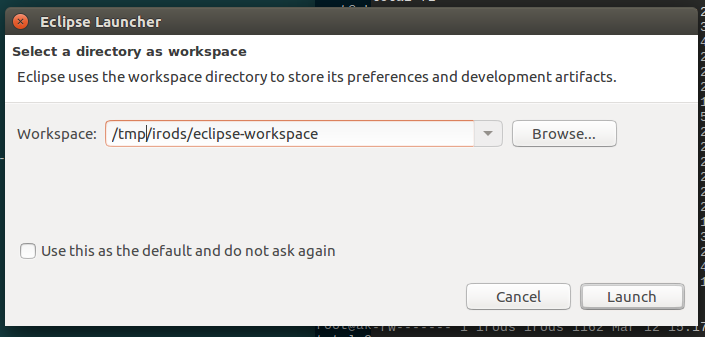
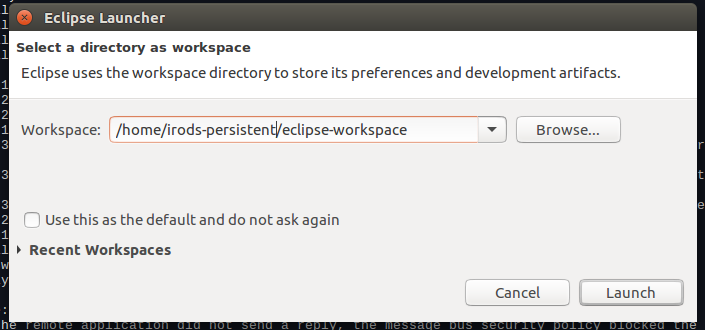
Interim checkin. Do not look.

Changed region(s): [[0.0, 0.0, 1.0, 1.0]]

diff --git a/Eclipse-attach-to-icommand-executable.md b/Eclipse-attach-to-icommand-executable.md
@@ -40,11 +40,63 @@ Lastly, much of what happens next is how I work -- there are many ways to do thi
 
 ### Preparations 
 
+Lets assume your developer user name is "akelly", and that your git repository sources are under the path "/home/akelly/src/renci/".  
 
-![Choose Project](images/debug-icmds-image1.png "Create an a new executable project") 
+You first have to create the runtime environment for eclipse under the user identity (authority) of "irods".  
 
+This means that the user "irods" exists and has a sane user environment (i.e. all the prerequisite packages to run iRODS on your system have been installed, and that the "irodsServer" process is running.  See the links in the previous section).
 
-Temporary text while under construction
+We're going to use a somewhat temporary folder "/home/irods-persistent" to house both the eclipse workspace, as well as the copy of the sources we're going to make, for the "irods" user:
+
+~~~
+$ sudo su
+<password>
+# cd ~akelly/src/renci
+# ls -l
+total 36
+drwxrwxr-x  9 akelly akelly 4096 Mar 11 13:21 ./
+drwxrwxr-x 15 akelly akelly 4096 Mar 10 16:34 ../
+drwxrwxr-x  8 akelly akelly 4096 Mar 12 15:23 bld_irods/
+drwxrwxr-x  5 akelly akelly 4096 Mar 12 15:27 bld_irods_client_icommands/
+drwxrwxr-x  4 akelly akelly 4096 Mar 10 22:01 How-To/
+drwxr-xr-x  4 akelly akelly 4096 Mar 10 16:34 How-To.bak/
+drwxrwxr-x 15 akelly akelly 4096 Mar 10 21:55 irods/
+drwxrwxr-x 10 akelly akelly 4096 Mar 10 22:06 irods_client_icommands/
+drwxrwxr-x  5 akelly akelly 4096 Mar 11 13:21 irods_training/
+~~~
+
+The sources we want (for /usr/bin/ireg) are in the "irods\_client\_icommands/" folder.  Create the target folder if it doesn't exist already, and copy the sources there.
+
+~~~
+# mkdir -p /home/irods-persistent
+--->  this is optional:  rm -rf /home/irods-persistent/irods_clients_icommands  
+# cp -r irods_clients_icommands/ /home/irods-persistent 
+# chown -R irods:irods /home/irods-persistent
+~~~
+
+Now, become the user "irods", find the "ireg" executable, and start eclipse (from the command line). Still as superuser:
+
+~~~
+# su - irods
+irods@akellydt1:~$ pwd
+/home/irods
+irods@akellydt1:~$ which ireg
+/usr/bin/ireg
+irods@akellydt1:~$ /opt/eclipse/eclipse
+
+~~~
+
+At this point, eclipse comes up -- the terminal you invoke it from is waiting for it to exit, and you will see many messages from eclipse.  Those may safely be ignored.
+
+The first thing that happens, is a dialog box that eclipse shows:
+
+![Workspace](images/debug-icmds-image1.png "Choose a workspace for the irods user") 
+
+It suggests to use "/home/irods/eclipse-workspace" as the folder it should use for the workspace.  Override this by updating the path to "/home/irods-persistent/eclipse-workspace", and click "Launch".
+
+The next screen you see is the opening window.  I tend to dismiss that window forever, and go to the actual workbench:
+
+![Splash](images/debug-icmds-image1-1.png "Move on to the worksbench") 
 
 ![Choose Project](images/debug-icmds-image2.png "Create an a new executable project") 
 
